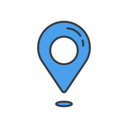
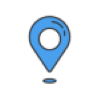
aggiunta icona destinazione

Changed region(s): [[0.27, 0.15, 0.72, 0.75], [0.42, 0.78, 0.57, 0.84], [0.36, 0.54, 0.45, 0.66]]

diff --git a/static/script.js b/static/script.js
@@ -150,7 +150,7 @@ map.on('click', async function (event) {
   console.log('Click registered at:', coordinates, 'Lat/Lon:', latDest, lonDest);
 
   // Rimuovi i marker esistenti
-  markerDest.getSource().clear();
+  markerLayer.getSource().clear();
 
   if(LAT_INF <= latDest && latDest < LAT_SUP && LON_SX <= lonDest && lonDest < LON_DX){
     const marker = new ol.Feature({
@@ -158,7 +158,7 @@ map.on('click', async function (event) {
   });
 
   // Aggiungi il nuovo marker al layer
-  markerDest.getSource().addFeature(marker);
+  markerLayer.getSource().addFeature(marker);
 
   pulsanteConfermaDestinazione();
 
@@ -502,10 +502,6 @@ async function ricercaStrallo(latS, lonS, latD, lonD){
     positionLabelStart.innerHTML = "Posizione di partenza: [" + latitudeStart + ", " + longitudeStart + "] " + 
                                     "Posizione di arrivo: [" + latitudeDestiantion + ", " + longitudeDestiantion + "]";
 
-    const view = map.getView();
-    const newCenter = ol.proj.fromLonLat([longitudeStart, latitudeStart]);
-    view.setCenter(newCenter);
-    view.setZoom(15);
 
     // Aggiunta dei controlli alla mappa
     map.addControl(new ol.control.ScaleLine());

diff --git a/static/utils.js b/static/utils.js
@@ -71,7 +71,7 @@ return new Promise((resolve, reject) => {
                     //resultElement.style.color = 'green';
                     latDest = latitude;
                     lonDest = longitude;
-                    markerDest.getSource().clear();
+                    markerLayer.getSource().clear();
                     const marker = new ol.Feature({
                         geometry: new ol.geom.Point(ol.proj.fromLonLat([lonDest, latDest]))
                     });
@@ -81,7 +81,7 @@ return new Promise((resolve, reject) => {
                     view.setCenter(newCenter);
                     view.setZoom(15);
     
-                    markerDest.getSource().addFeature(marker);
+                    markerLayer.getSource().addFeature(marker);
                     pulsanteConfermaDestinazione();
                     // resolve({ latitude, longitude });
                 } else {

diff --git a/static/index.html b/static/index.html
@@ -103,7 +103,7 @@
 source: new ol.source.Vector(),
 style: new ol.style.Style({
     image: new ol.style.Icon({
-        src: 'res/icona-posizione.png', //creare nuova icona
+        src: 'res/icona-destinazione.png', //creare nuova icona
         anchor: [0.5, 1],
         scale: 0.8
     })
